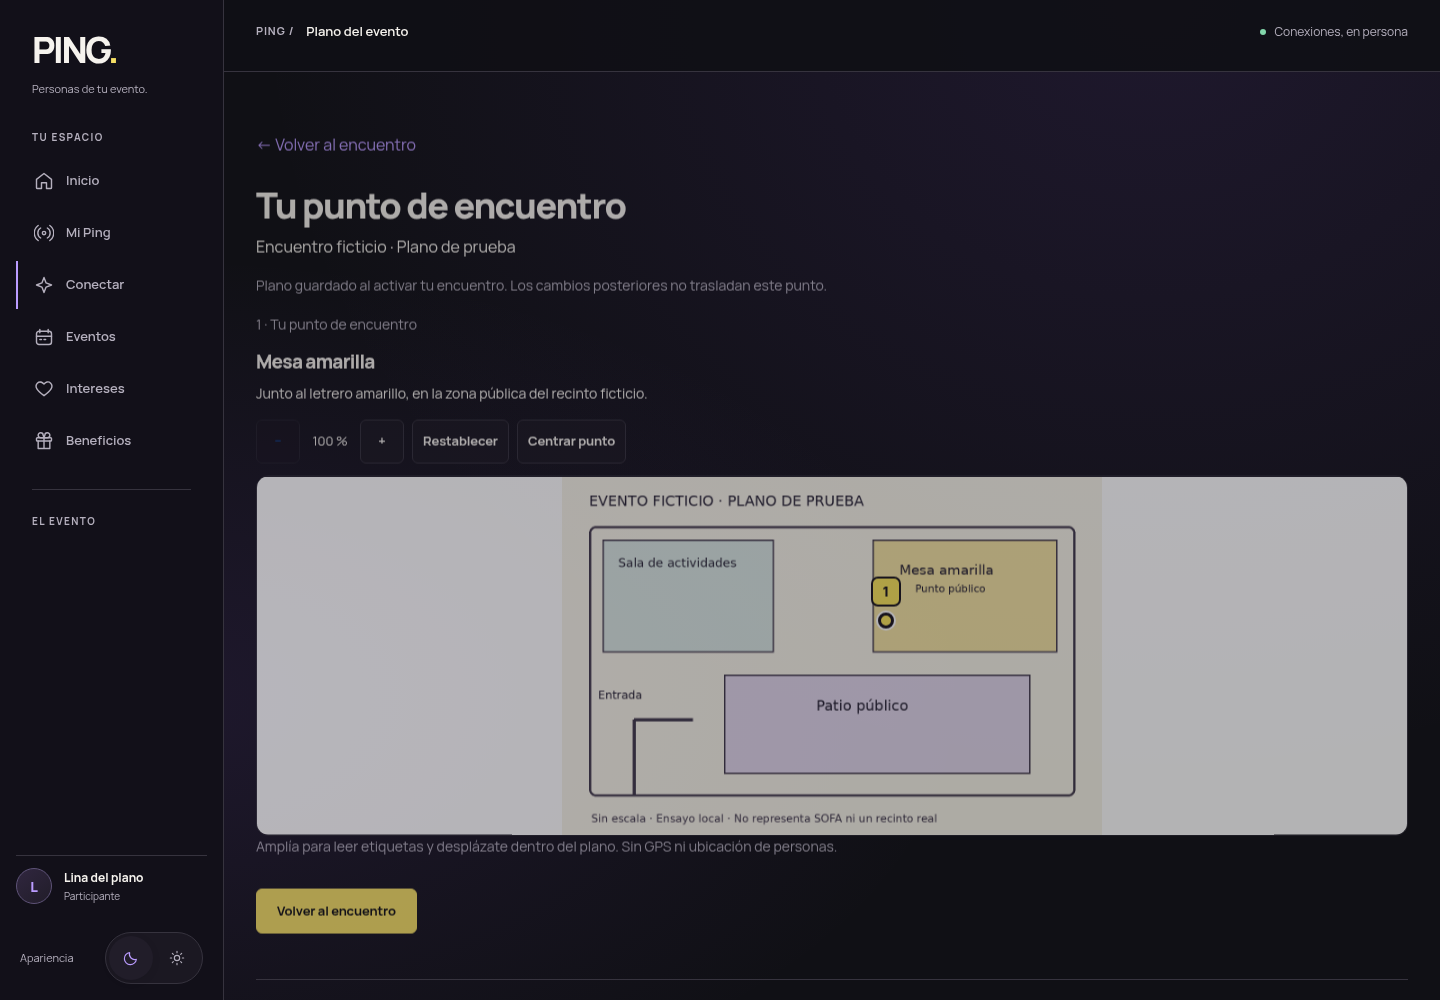
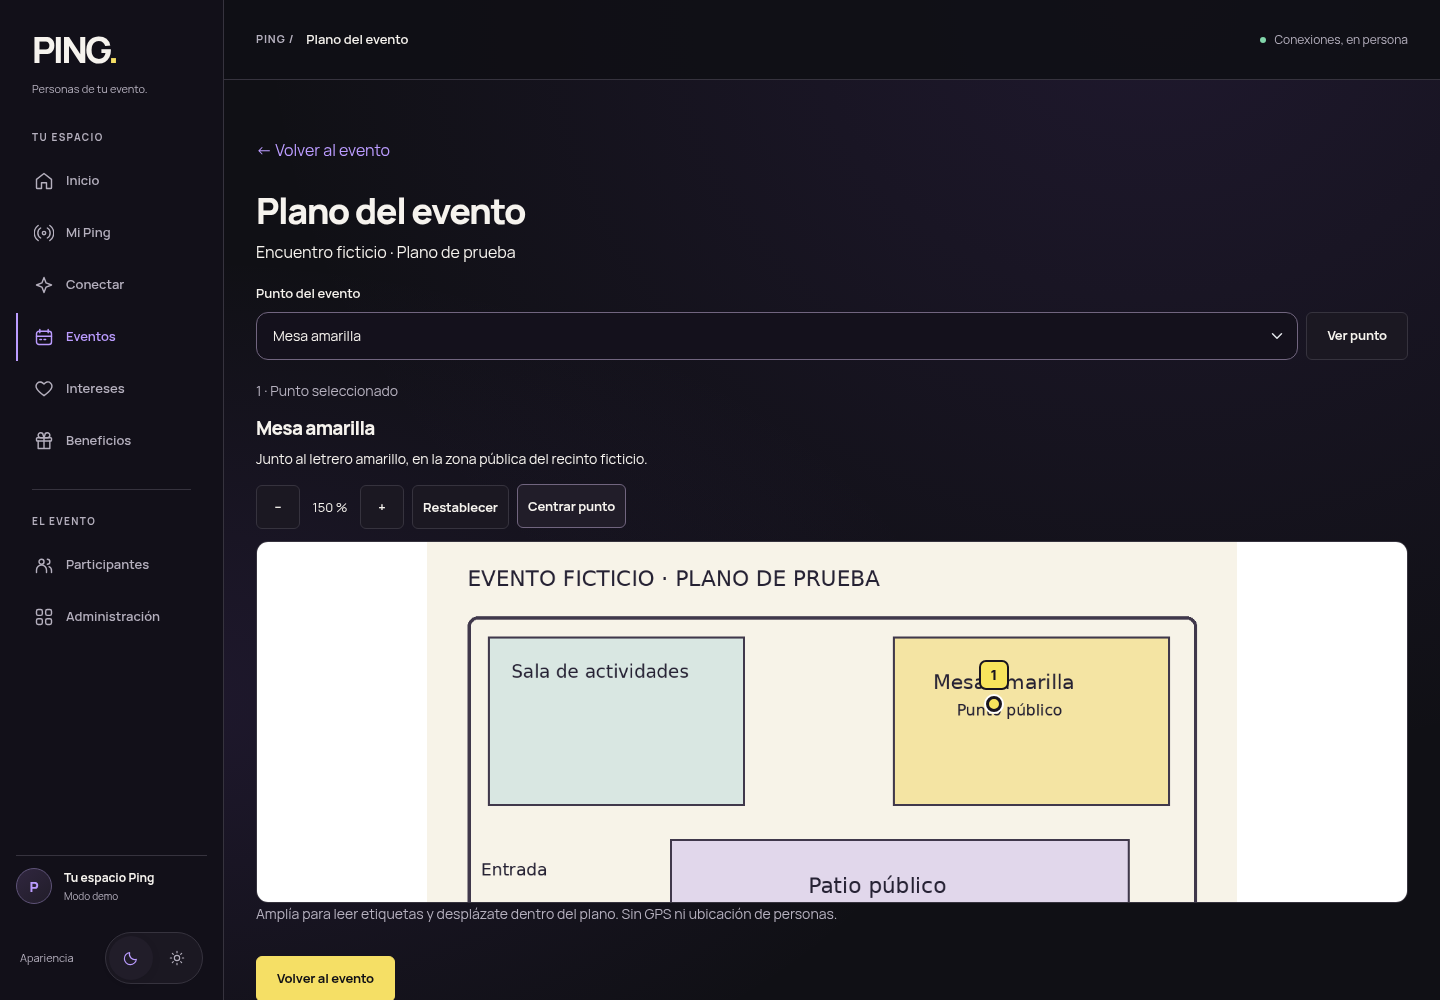
fix: harden floorplan viewer and verify persistent mobile journey

diff --git a/src/main/resources/static/js/floorplan.js b/src/main/resources/static/js/floorplan.js
@@ -28,7 +28,7 @@
       const ratio = image.naturalHeight / image.naturalWidth;
       fitWidth = Math.min(viewport.clientWidth, 360 / ratio); fitHeight = fitWidth * ratio;
       canvas.style.width = `${fitWidth * zoom}px`; canvas.style.height = `${fitHeight * zoom}px`;
-      viewport.style.height = `${fitHeight}px`;
+      viewport.style.height = `${fitHeight + 2}px`;
       root.querySelector('[data-fp-scale]').textContent = `${Math.round(zoom * 100)} %`;
       root.querySelector('[data-fp-zoom="out"]').disabled = zoom <= 1;
       root.querySelector('[data-fp-zoom="in"]').disabled = zoom >= 4;
@@ -77,7 +77,8 @@
       new ResizeObserver(() => {if (viewport.clientWidth !== lastWidth) {lastWidth=viewport.clientWidth;layout();if(valid()&&zoom>1)center(x,y);}}).observe(viewport);
     };
     image.addEventListener('load', loaded);
-    image.addEventListener('error', () => {controls.hidden=true;viewport.hidden=true;root.querySelector('[data-fp-image-error]').hidden=false;});
-    if (image.complete) loaded();
+    const failed = () => {controls.hidden=true;viewport.hidden=true;root.querySelector('[data-fp-image-error]').hidden=false;};
+    image.addEventListener('error', failed);
+    if (image.complete) { if (image.naturalWidth) loaded(); else failed(); }
   });
 })();

diff --git a/src/main/resources/static/css/floorplan.css b/src/main/resources/static/css/floorplan.css
@@ -7,7 +7,7 @@
 .fp-controls[hidden],.fp-viewport[hidden],.fp-marker[hidden] { display: none !important; }
 .fp-controls .btn { min-width: 44px; min-height: 44px; padding: 8px 10px; font-size: 13px; }
 .fp-controls [data-fp-scale] { font-size: 13px; min-width: 44px; text-align: center; }
-.fp-viewport { position: relative; width: 100%; max-height: 360px; overflow: auto; background: #fff; border: 1px solid var(--ping-border); border-radius: 12px; touch-action: auto; overscroll-behavior-x: contain; }
+.fp-viewport { position: relative; width: 100%; max-height: 362px; overflow: auto; background: #fff; border: 1px solid var(--ping-border); border-radius: 12px; touch-action: auto; overscroll-behavior-x: contain; }
 .fp-viewport:focus-visible { outline: 3px solid var(--ping-primary); outline-offset: 3px; }
 .fp-canvas { position: relative; width: 100%; margin: 0 auto; }
 .fp-canvas img { display: block; width: 100%; height: 100%; max-width: none; user-select: none; pointer-events: none; }

diff --git a/src/test/java/com/ping/floorplan/FloorplanTests.java b/src/test/java/com/ping/floorplan/FloorplanTests.java
@@ -51,6 +51,11 @@ class FloorplanTests {
         for(String text:List.of("<svg xmlns='http://www.w3.org/2000/svg'/>","<html>Plano</html>","https://example.com/plano.png"))
             assertThatThrownBy(()->codec.decode(new MockMultipartFile("image","fake.png","image/png",text.getBytes()))).isInstanceOf(BusinessRuleException.class);
         assertThatThrownBy(()->codec.decode(image("gif",64,64))).isInstanceOf(BusinessRuleException.class);
+        byte[] truncated=Arrays.copyOf(image("png",64,64).getBytes(),32);
+        assertThatThrownBy(()->codec.decode(new MockMultipartFile("image","corrupt.png","image/png",truncated))).isInstanceOf(BusinessRuleException.class);
+        byte[] pixels=image("png",64,64).getBytes();java.nio.ByteBuffer.wrap(pixels,16,8).putInt(5000).putInt(5000);
+        var crc=new java.util.zip.CRC32();crc.update(pixels,12,17);java.nio.ByteBuffer.wrap(pixels,29,4).putInt((int)crc.getValue());
+        assertThatThrownBy(()->codec.decode(new MockMultipartFile("image","many-pixels.png","image/png",pixels))).isInstanceOf(BusinessRuleException.class);
         assertThatThrownBy(()->codec.decode(image("png",6001,32))).isInstanceOf(BusinessRuleException.class);
         assertThatThrownBy(()->codec.decode(new MockMultipartFile("image","large.png","image/png",new byte[FloorplanImageCodec.MAX_INPUT+1]))).isInstanceOf(BusinessRuleException.class);
         assertThat(plans.current(event)).isNull();

diff --git a/docs/ENCUENTRO_CONFIGURABLE_LLEGADA.md b/docs/ENCUENTRO_CONFIGURABLE_LLEGADA.md
@@ -2,7 +2,7 @@
 
 ## Estado y recuperación
 
-**Bloque vigente: DEC-045, categorías y selección móvil**, rama `feature/interest-categories-mobile`, [PR39 en borrador](https://github.com/Samge34c/PING/pull/39), sobre552906a/PR38. Las secciones anteriores describen la cadena conservada. [Cierre y cómo retomar](#cierre-dec-045--unidad3).
+**Bloque vigente: DEC-046, plano configurable por evento**, rama `feature/event-floorplan-mobile`, [PR40 en borrador](https://github.com/Samge34c/PING/pull/40), sobre21ff7c9/PR39. La cadena anterior está conservada. [Persistencia, respaldo y Windows](#dec-046--persistencia-respaldo-y-windows).
 
 Actualizado17 octubre2026 Bogotá. Copia `/workspace/PING`, remoto `https://github.com/Samge34c/PING.git`. Recuperación verificada: PR36 en borrador, rama `feature/event-encounter-arrival`, último respaldo inicial `9d233b60ec2493f12403e4c0b6278792221fc571`; GitHub no tenía avances posteriores. Árbol inicial limpio, base `feature/connect-event-entry` @ `c288f778d8d7cdf72ec3abb4306473aa756b352b`. Cadena anterior conservada. Sin main, merge, force-push ni publicación pública.
 
@@ -172,3 +172,55 @@ Sustitución real durante ACTIVE: imagen nueva1000×700 y todas las posiciones v
 El harness llegó al último encuadre y falló por localizar a la vez option y h2 con el mismo nombre; se corrigió solo esa captura con #point-title y se contrastó el estado persistido, sin repetir altas/finalización. No se cambió producto para ocultar el fallo de selector. Capturas reales examinadas: [participante390](screenshots/event-floorplan/02-participant-390.png), [sin plano390](screenshots/event-floorplan/03-no-plan-390.png), [sin marcador390](screenshots/event-floorplan/04-no-marker-390.png), [360 claro](screenshots/event-floorplan/05-participant-360-light.png), después [escritorio1440](screenshots/event-floorplan/06-participant-desktop.png). Imagen y evento son ficticios; no se tocó el escenario demo SOFA existente.
 
 Estado al guardar unidad3: función integrada y recorrido representativo comprobado. Último remoto seguro antes de push0214e2c. Pendiente unidad4: revisión final de teclado/desktop y límites, documentación Windows/backup MySQL, verify general y contraste final de rama/PR; teléfono físico/Safari siguen fuera de esta emulación. Siguiente acción exacta: comprobar los bordes observados, ejecutar suite general una vez al cerrar y publicar el cuarto respaldo con evidencia y límites.
+
+
+### DEC-046 — persistencia, respaldo y Windows
+
+La aplicación guarda la imagen normalizada en `event_floorplan_images` (MEDIUMBLOB), separada de `event_floorplans` (metadatos) y `event_floorplan_positions` (ID real del punto/x/y). Eventos y matches guardan referencias y snapshots. No hay directorio de planos que configurar: sobreviven al reinicio de PING con el mismo MySQL. Listados/estados no consultan los bytes. Tope por versión4MiB; se conservan versiones anteriores sin purga automática para que los activos no pierdan recursos. Su espacio crece con las sustituciones; incluir todas las tablas en un respaldo consistente. No borrar versiones manualmente a partir del nombre de un archivo.
+
+**GitHub respalda código/migraciones/capturas ficticias, no los planos o datos subidos durante el uso.** Un clon nuevo no recupera esos datos. MySQL debe tener almacenamiento persistente y su propio respaldo; una base efímera de ensayo no es ese respaldo. No se suben imágenes privadas, dumps, contraseñas o cookies a Git. Las rutas de administración/eventos conservan su acceso académico existente: **no tienen autenticación nueva**. El plano de una misión exige su sesión para mostrarse integrado; los recursos de imagen/evento siguen el acceso público académico existente, no se afirman privados. Ninguna imagen muestra posiciones de personas.
+
+Ejemplo de respaldo Windows a una carpeta **fuera del clon**, adaptando host/puerto/usuario/base. `--password` solicita la contraseña en terminal; no escribirla en el comando/chat. `--hex-blob` incluye correctamente los planos y `--result-file` evita convertir el SQL binario por la redirección de PowerShell:
+
+```powershell
+New-Item -ItemType Directory -Force C:\PING-backups
+mysqldump --host=127.0.0.1 --port=3306 --user=TU_USUARIO --password --single-transaction --hex-blob --routines --triggers --result-file=C:\PING-backups\ping-respaldo.sql TU_BASE
+```
+
+Comprobar el código de salida y ensayar la restauración en **otra base vacía**, nunca sobrescribir la demo para probar. Restaurar el conjunto consistente, no solo los blobs: referencias/posiciones/snapshots deben corresponder a los mismos datos. Guardar ese respaldo con acceso apropiado a su contenido. La app no añade cuentas ni almacenamiento externo.
+
+Recuperar esta rama en Windows aunque el clon original usara `--single-branch`. Primero `git status --short` y conservar cambios locales. Los siguientes comandos no limpian ni reinician el repositorio:
+
+```powershell
+git remote set-branches --add origin feature/event-floorplan-mobile
+git fetch origin refs/heads/feature/event-floorplan-mobile:refs/remotes/origin/feature/event-floorplan-mobile
+git switch feature/event-floorplan-mobile
+git branch --set-upstream-to=origin/feature/event-floorplan-mobile
+git pull --ff-only origin feature/event-floorplan-mobile
+git rev-parse HEAD
+git ls-remote origin refs/heads/feature/event-floorplan-mobile
+.\mvnw.cmd verify
+```
+
+Si la rama local todavía no existe, Git la crea desde la referencia remota única al hacer switch; si pide selección explícita, usar `git switch --track origin/feature/event-floorplan-mobile`. Comparar HEAD con remoto/PR40. Usar JDK21 completo y la configuración MySQL privada existente (`DB_URL`, `DB_USERNAME`, `DB_PASSWORD`); Flyway añade V18 sin reescribir publicadas y Hibernate valida. Arranque local: `.\mvnw.cmd spring-boot:run`. El lector WebP3.12.0 se resuelve por Maven (licencia BSD3 incluida en META-INF/licenses del JAR), sin binario nativo o claves de mapas.
+
+Para ensayo desde teléfono, PING sigue escuchando127.0.0.1 por defecto. En una red local de prueba, configurar `PING_PUBLIC_BASE_URL` con la dirección LAN real de Windows y arrancar explícitamente con `--server.address=0.0.0.0`, por ejemplo `.\mvnw.cmd spring-boot:run "-Dspring-boot.run.arguments=--server.address=0.0.0.0"`; comprobar puerto/firewall de esa copia. Administración continúa sin autenticación. No se ha hecho una publicación pública ni se ha probado el teléfono físico en esta tarea.
+
+Recorrido para retomar: evento → Configurar plano y marcadores → imagen → seleccionar punto existente → tocar/ajustar0–1/guardar → abrir evento → dos entradas por código/QR → Conectar/aceptar ambos → Ver mi punto en el plano → volver/confirmar actividad. Reemplazar la imagen deja los puntos de la nueva versión sin ubicar, con avisos; activos conservan su versión. Sin nueva configuración, la guía SOFA anterior sigue disponible cuando corresponda.
+
+
+### DEC-046 unidad4 — cierre verificado
+
+Respaldos remotos contrastados antes de esta actualización: unidad1 **2c2d9eb01eaa45482f3c817882bfaf831ab396d5**, unidad2 **0214e2c532b6657bcd8f6c24e6cce7dde0227229**, unidad3 **83bbea03ccb0e15ccd4cb94d879b3256b64045d9**. El cuarto commit contiene este cierre/correcciones/evidencia; su SHA se contrasta tras push en la punta de feature/event-floorplan-mobile y PR40. No se adivina el hash del propio archivo.
+
+Comprobación general final: **218 pruebas,0 fallos/errores/omitidas, BUILD SUCCESS y JAR** con JDK21 completo y Wrapper `./mvnw -B -o -Dmaven.repo.local=/workspace/.m2/repository verify`. No hubo código posterior a esa ejecución; solo continuidad/README y encuadre de escritorio. Fuente y artefacto incluyen el lector WebP y licencia oficial BSD3 en META-INF/licenses, verificada byte a byte desde el tag upstream fijado. Sin cambios de stack, hooks ni skills versionadas. La suite general usa H2; se mantiene separada de la prueba MySQL8.4.11 V17→V18 real y del recorrido navegador/MySQL.
+
+Bordes finales: PNG con cabecera válida truncado rechazado y límite25MP detectado antes de decodificar; imagen inaccesible conserva indicaciones y oculta controles que no funcionan, también si el fallo llegó antes de inicializar JS. Ajustado borde del viewport para no añadir2px de scroll interno en zoom base. Navegador desktop real: flechas de teclado, arrastre de mouse y marcador alineado; al2× la imagen todavía cabía en el ancho de escritorio, así que se verificó desplazamiento horizontal al3×, sin alterar código para una expectativa errónea del ensayo. Gesto táctil con zoom base desplaza la página normalmente; el primer gesto de ensayo intentaba subir desde scroll0, se corrigió solo su dirección. Sin errores JS en estos controles finales.
+
+Arranque real del **JAR empaquetado** contra el mismo MySQL después de detener la app de ensayo: Hibernate/Flyway18 válidos, imagen original con SHA256 idéntico tras varios reinicios y coordenadas recolocadas0.7/0.3 de la nueva versión persistidas. Se dejó el fixture final con el esquema legible original mediante otra sustitución explícita, comprobando de nuevo posiciones vacías y recolocación; las3 versiones ficticias siguen accesibles, incluida la usada por el encuentro terminado. [Escritorio final](screenshots/event-floorplan/06-participant-desktop.png) muestra el visor público con punto seleccionado (no una ubicación de persona). El servidor de ensayo8088 quedó detenido; MySQL exclusivo permanece disponible y no es un respaldo de producción.
+
+Revisión visual conjunta: participante entiende qué punto es suyo por nombre/indicaciones y marcador1; controles y retorno son reconocibles, nombre/textos no dependen de las etiquetas pequeñas de la imagen; zoom permite leerlas. No se incrustó un plano nuevo en ACTIVE que desplace palabra/actividad/confirmación. Navegación inferior no bloquea controles al desplazarse; viewport360 claro muestra retorno completo sobre ella. Sin portada/decoración nueva, mismos temas/Manrope/Festival Social. Organizador selecciona un punto real del evento y dispone de alternativa numérica; sin plano o marcador el mensaje es explícito. Capturas390 principales y360 son del recorrido real, escritorio es la vista final del fixture; no representan teléfono físico o Safari.
+
+Límites pendientes: teléfono/cámara/Safari y ensayo Wi-Fi Windows con sus datos/configuración privada. Las sesiones HTTP existentes son volátiles al reiniciar; no se afirma recuperación de identidad/cuentas, fuera del alcance. Planos, posiciones y snapshots sí persisten en MySQL. No hay GPS, personas en el plano, servicios de pago, rutas automáticas, autenticación nueva, publicación pública, merge o cambios en main.
+
+Estado al preparar el cuarto respaldo: implementación, verificaciones y documentación completas; pendientes únicamente commit/push/contraste del propio cierre y actualización final de PR40. Tras publicarlo y comprobar árbol limpio, no queda código local pendiente de DEC-046. Si el entorno cae antes, remoto seguro83bbea03 y cambios exactos por git status; revisar diff, guardar y push normal, sin reset/clean/force-push. Próxima acción al retomar: actualizar esta rama mediante la guía Windows, respaldar MySQL real fuera del clon y probar carga/posición/recorrido desde teléfono; revisar PR40 sobre PR39, sin integrar automáticamente.

diff --git a/README.md b/README.md
@@ -154,3 +154,10 @@ Continuidad: [encuentro configurable, llegada informativa y recompensas por even
 Rama `feature/interest-categories-mobile`, [PR39 en borrador](https://github.com/Samge34c/PING/pull/39), sobre `fix/event-journey-consistency`. V17 agrupa los8 intereses existentes sin cambiar sus IDs ni el matching. Administración académica en `/interests/categories`: nombre, orden, estado y asociación; sin categoría siguen en «Otros intereses». No añade autenticación.
 
 Alta y edición comparten categorías abiertas, selección táctil, resumen/contador y filtro que conserva elecciones; búsqueda local cuando el catálogo supera12 opciones. Las categorías inactivas impiden nuevas selecciones; las anteriores siguen en «Conservados» hasta retirarlas voluntariamente. Un borrador nuevo debe quitar las opciones que se desactivaron antes de finalizar. Evidencia, verificación MySQL y cómo retomar en [la continuidad](docs/ENCUENTRO_CONFIGURABLE_LLEGADA.md#bloque-actual-dec-045--categorías-de-intereses).
+
+
+## Plano por evento — DEC-046
+
+`feature/event-floorplan-mobile`, [PR40 en borrador](https://github.com/Samge34c/PING/pull/40), sobre PR39. Administración existente: `/events/{id}/floorplan` carga PNG/JPEG/WebP, conserva proporciones, valida contenido/tamaño/dimensiones y coloca puntos existentes por toque o coordenadas0–1. Sustitución explícita exige recolocar; no borra puntos ni versiones usadas por encuentros. V18 aditiva guarda metadatos/bytes separados en MySQL y referencia/posición al activar.
+
+Mi evento y ACTIVE abren la versión correcta con un marcador numerado, indicaciones, centrar/zoom/pan/reset y retorno. Sin imagen o posición, información útil sin GPS ni lugares inventados; SOFA anterior conserva su guía cuando corresponde. Imágenes subidas necesitan respaldo MySQL independiente de GitHub. [Recuperación Windows con single-branch y respaldo](docs/ENCUENTRO_CONFIGURABLE_LLEGADA.md#dec-046--persistencia-respaldo-y-windows). Administración académica sin autenticación nueva; lector WebP TwelveMonkeys3.12.0, BSD3 incluida en el JAR. Evidencia móvil en esa continuidad.
